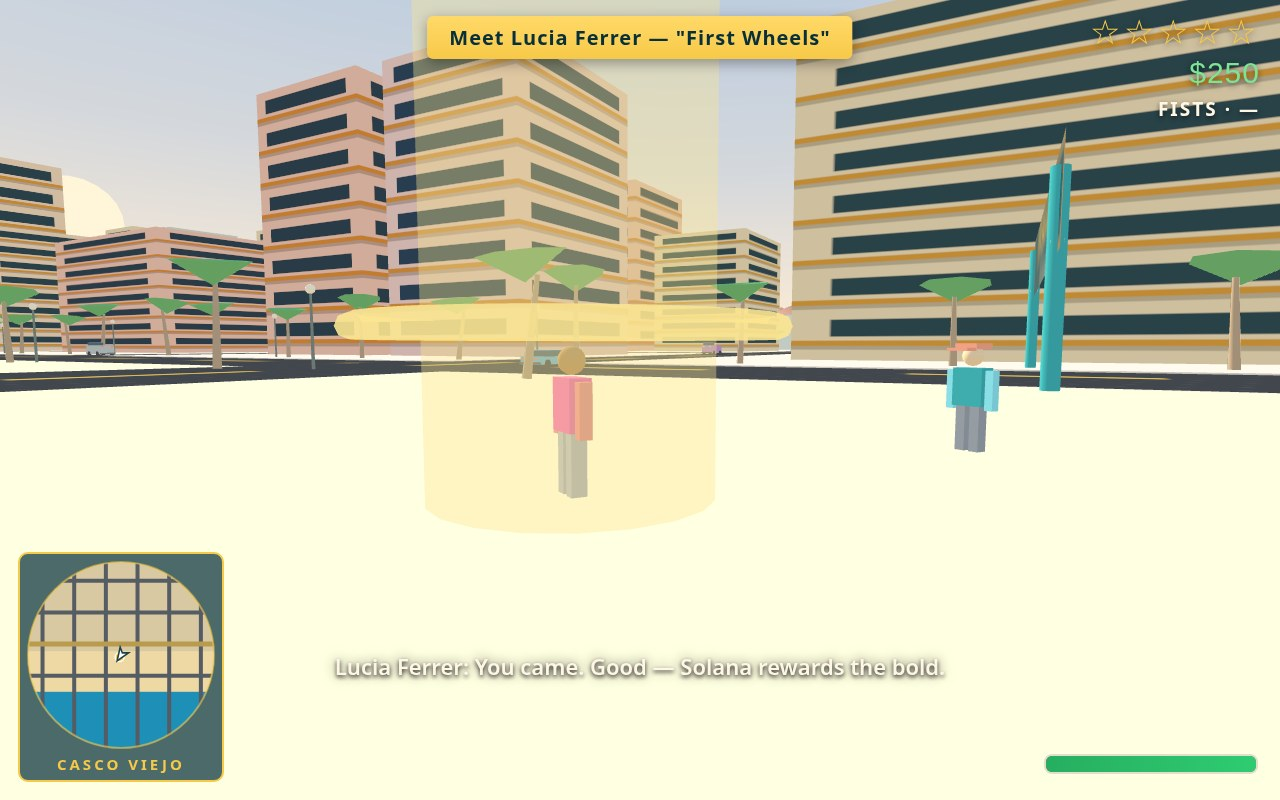
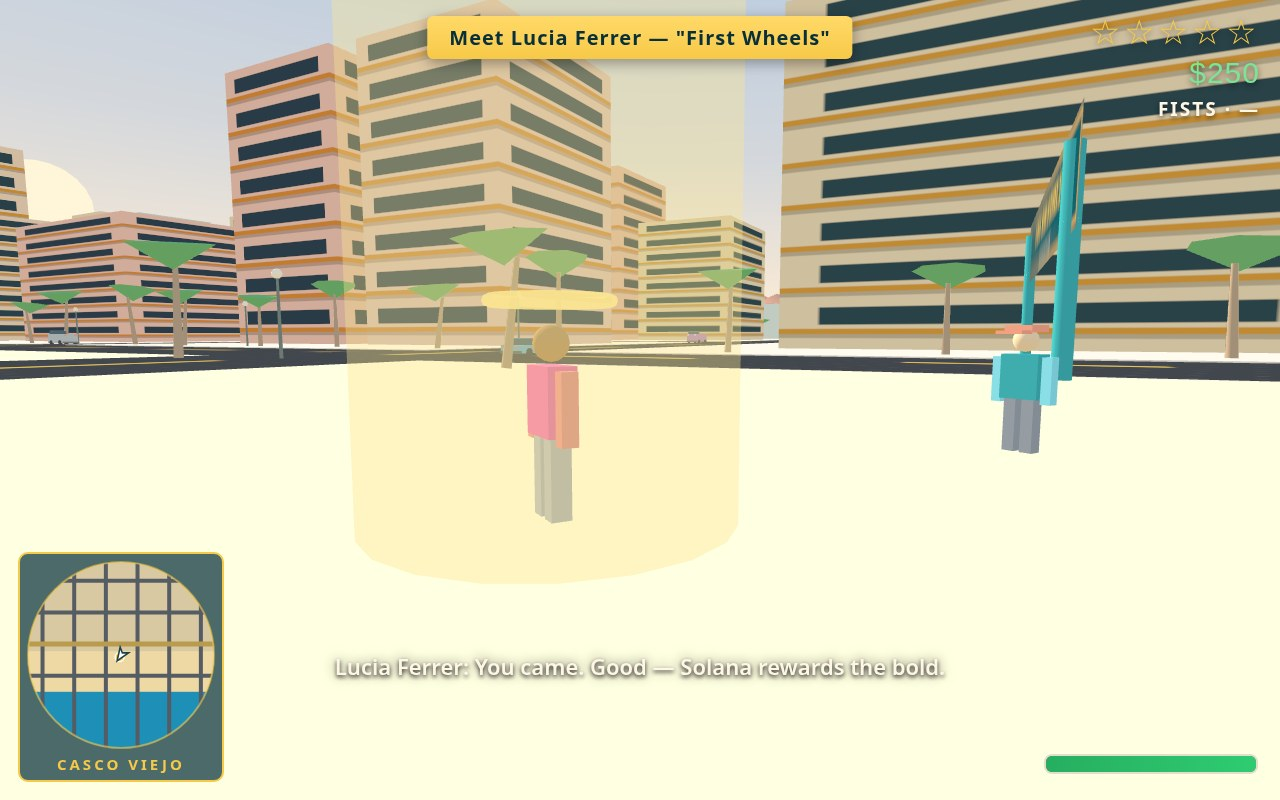
Micro-fix: beacon ring scale and mission framing

diff --git a/game/src/missions.js b/game/src/missions.js
@@ -249,7 +249,9 @@ function swingLimbs(ped, dt, speed) {
 }
 
 // makeBeacon(colorHex) -> { group, ring }: a pillar of light with a
-// bobbing ring at its base — gold for story goals, teal for races.
+// compact bobbing halo ring at head height — gold for story goals,
+// teal for races. The ring stays person-sized on purpose: a wide
+// flat torus reads as a floating bar from low camera angles.
 // The pillar stays a soft shaft, never a blown-out column: normal
 // blending at low opacity, front faces only. (Additive blending
 // stacks the shaft's light onto an already bright golden-hour sky
@@ -268,7 +270,7 @@ function makeBeacon(colorHex) {
   pillar.position.y = 13;
   group.add(pillar);
   const ring = new THREE.Mesh(
-    new THREE.TorusGeometry(2.4, 0.14, 8, 28),
+    new THREE.TorusGeometry(0.55, 0.06, 8, 28),
     new THREE.MeshBasicMaterial({ color: colorHex, transparent: true, opacity: 0.9, fog: false }),
   );
   ring.rotation.x = Math.PI / 2;

diff --git a/game/src/shots.js b/game/src/shots.js
@@ -275,10 +275,11 @@ function stageMission(G) {
   if (G.say) {
     G.say(['Lucia Ferrer: You came. Good — Solana rewards the bold.']);
   }
-  // From the sand, close in and low, looking north past the meeting:
-  // Lucia, her beacon and the player fill the centre against the
-  // avenue and the skyline, the kiosk held at the frame's edge.
-  setCamera(G, -46.5, 1.8, 403.5, -50.3, 1.15, 396.6);
+  // From the sand, closer in and low, looking north past the
+  // meeting: Lucia, her beacon and the player sit large in the
+  // centre against the avenue and the skyline, the kiosk held at
+  // the frame's edge and little empty sand below.
+  setCamera(G, -47.5, 1.7, 402.0, -50.3, 1.1, 396.6);
 }
 
 // --- Entry point -----------------------------------------------------------
